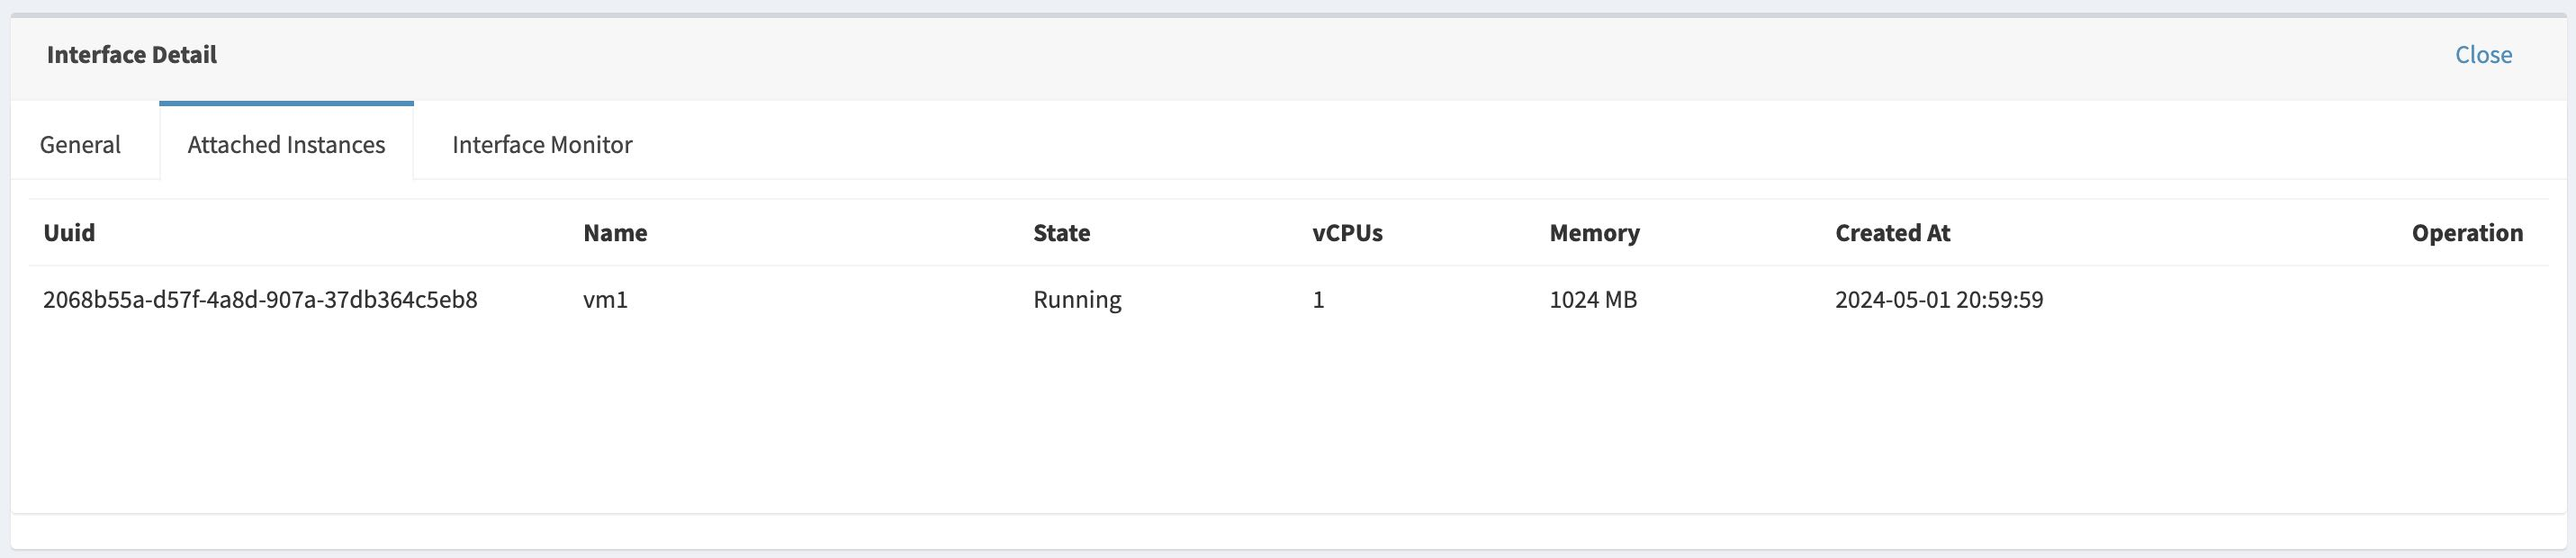
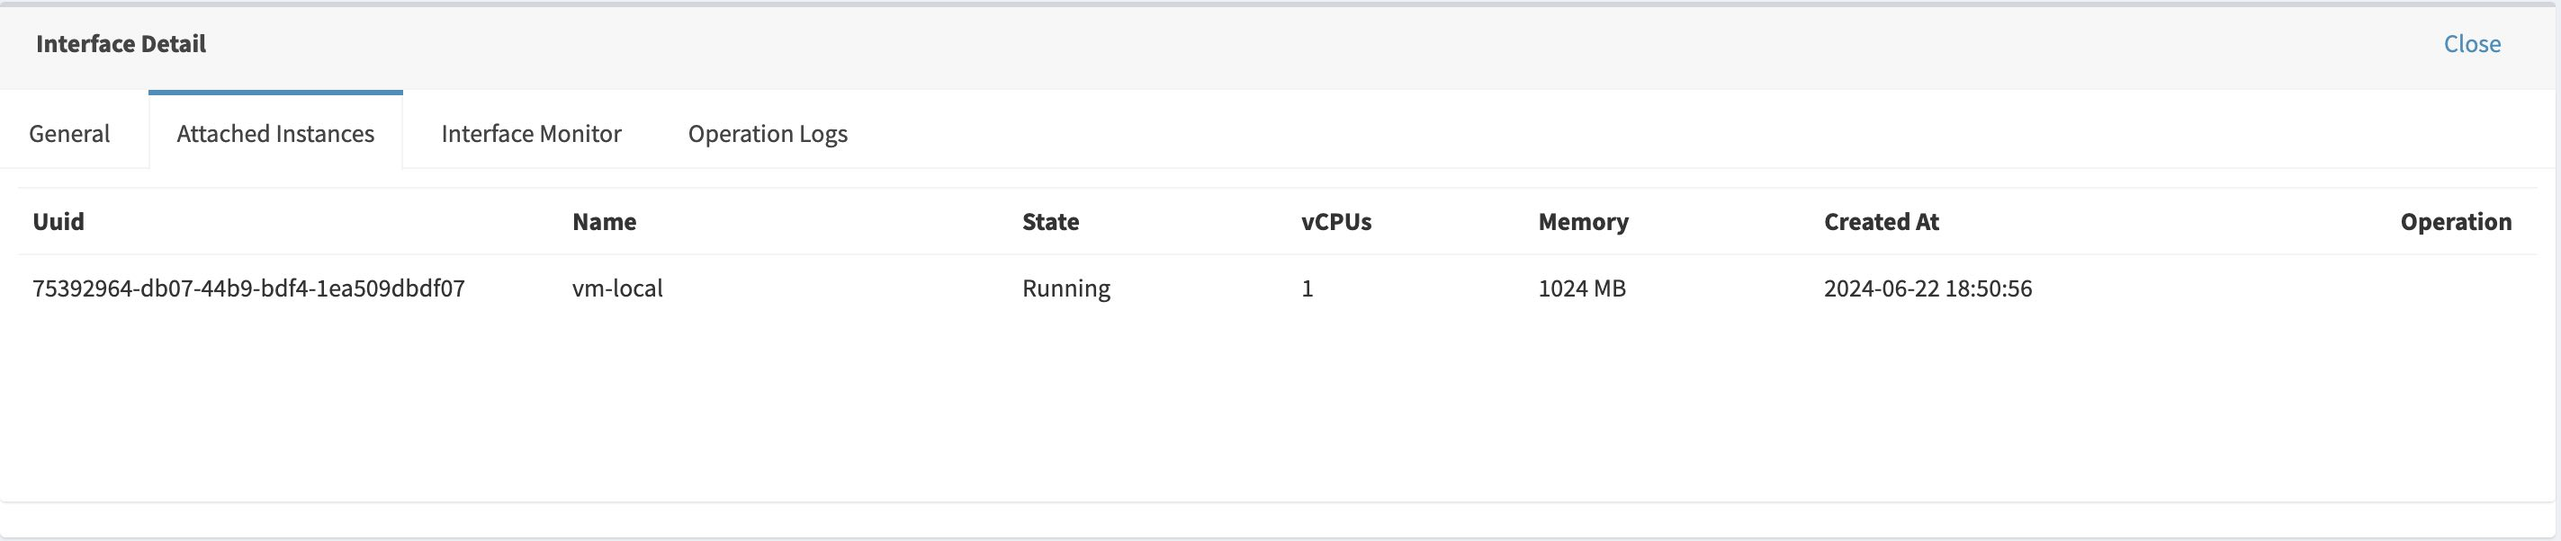
update

diff --git a/content/en/docs/Usage/WebUI/Network/enic/_index.md b/content/en/docs/Usage/WebUI/Network/enic/_index.md
@@ -8,13 +8,14 @@ weight: 2
 ## Check Network Interfaces
 
 * Check network interface list:
-  * To change current cluster, click **Change Cluster** and then select **Zone** and **Cluster**
-  * Click **filter** button, input or select filter conditions, check the filtered network interfaces list
-  * Click **columns** button，select the columns to be displayed in the list，by default it shows all columns
+  * To change current cluster, click "**Change Cluster**" and then select "**Zone**" and "**Cluster**"
+  * Click "**filter**" button, input or select filter conditions, check the filtered network interfaces list
+  * Click "**columns**" button，select the columns to be displayed in the list，by default it shows all columns
 * To view a network interface's details, select the network interface in the list，detailed information will be showed in the below panel.
   * General information tab: show the general information of the network inerface
   * Attached instances tab: show the virtual machine instance to which the network interface attaches
   * Network interface monitor tab: Show the network interface's I/O statistical information in charts
+  * Operation logs tab: Show the network interface's operation logs
   
 {{% imgproc nic_list Fit "1000x600" %}}
 network interfaces list page
@@ -26,6 +27,10 @@ virtual machines to which the network interface attaches
 
 {{% imgproc nic_stat Fit "1000x400" %}}
 network interface's I/O monitor
+{{% /imgproc %}}
+
+{{% imgproc nic_logs Fit "1000x400" %}}
+network interface's operation logs
 {{% /imgproc %}}
 
 ## Create Network Interface

diff --git a/content/en/docs/Usage/WebUI/Storage/volume/_index.md b/content/en/docs/Usage/WebUI/Storage/volume/_index.md
@@ -7,14 +7,15 @@ weight: 2
 ## Volume List
 
 * Check volumes list：
-  * To change current cluster, click **Change Cluster** and then select **Zone** and **Cluster**
-  * Click **filter** button, input or select filter conditions, check the filtered volumes list
-  * Click **columns** button，select the columns to be displayed in the list，by default it shows all columns
+  * To change current cluster, click "**Change Cluster**" and then select "**Zone**" and "**Cluster**"
+  * Click "**filter**" button, input or select filter conditions, check the filtered volumes list
+  * Click "**columns**" button，select the columns to be displayed in the list，by default it shows all columns
 * To view a volume's details, select a volume in the list，detailed information will be showed in the below panel.
   * General information tab: show the general information of the volume
   * Attached instances tab: show the virtual machine instance to which the volume attaches
   * Snapshot tab: show the snapshots of the volume
   * Volume monitor tab: Show the volume's I/O statistical information in charts
+  * Operation log tab: Show the the volume's operation logs
   
 {{% imgproc volume_list Fit "1000x1000" %}}
 volume list page
@@ -30,6 +31,10 @@ volume's snapshot list
 
 {{% imgproc volume_stat Fit "1000x400" %}}
 volume's I/O monitor
+{{% /imgproc %}}
+
+{{% imgproc volume_logs Fit "1000x400" %}}
+volume's operation logs
 {{% /imgproc %}}
 
 ## Create New Volume

diff --git a/content/en/docs/Usage/WebUI/Storage/snapshot/_index.md b/content/en/docs/Usage/WebUI/Storage/snapshot/_index.md
@@ -5,13 +5,13 @@ weight: 3
 ---
 
 * Check snapshot list：
-  * To change current cluster, click **Change Cluster** and then select **Zone** and **Cluster**
-  * Click **filter** button, input or select filter conditions, check the filtered snapshot list
-  * Click **columns** button，select the columns to be displayed in the list，by default it shows all columns
+  * To change current cluster, click "**Change Cluster**" and then select "**Zone**" and "**Cluster**"
+  * Click "**filter**" button, input or select filter conditions, check the filtered snapshot list
+  * Click "**columns**" button，select the columns to be displayed in the list，by default it shows all columns
 * Edit snapshot
-  * Click **Edit** item button in the opetation dropdown menu to update the snapshot's basic information
+  * Click "**Edit**" item button in the opetation dropdown menu to update the snapshot's basic information
 * Delete snapshot
-  * Click **Delete** item button in the opetation dropdown menu to delete a snapshot
+  * Click "**Delete**" item button in the opetation dropdown menu to delete a snapshot
 
 {{% imgproc snapshot_list Fit "1000x500" %}}
 snapshot list page

diff --git a/content/zh/docs/Usage/WebUI/Storage/snapshot/_index.md b/content/zh/docs/Usage/WebUI/Storage/snapshot/_index.md
@@ -5,13 +5,13 @@ weight: 3
 ---
 
 * 查看快照列表：
-  * 选择当前的**可用区**和**集群**，查看当前集群下所有的快照
-  * 点击**筛选**按钮，输入查询条件，查看按条件过滤的快照列表
-  * 点击**列过滤**按钮，过滤需要显示在列表也的信息，默认全部显示
+  * 选择当前的"**可用区**"和"**集群**"，查看当前集群下所有的快照
+  * 点击"**筛选**"按钮，输入查询条件，查看按条件过滤的快照列表
+  * 点击"**列过滤**"按钮，过滤需要显示在列表也的信息，默认全部显示
 * 编辑快照
-  * 点击某个快照的**编辑**按钮，可编辑快照的名称和描述
+  * 点击某个快照的"**编辑**"按钮，可编辑快照的名称和描述
 * 删除快照
-  * 点击某个快照的**删除**按钮，可删除快照
+  * 点击某个快照的"**删除**"按钮，可删除快照
 
 {{% imgproc snapshot_list Fit "1000x500" %}}
 快照表页

diff --git a/content/zh/docs/Usage/WebUI/Network/enic/_index.md b/content/zh/docs/Usage/WebUI/Network/enic/_index.md
@@ -8,9 +8,9 @@ weight: 2
 ## 查看弹性网卡
 
 * 网卡列表：
-  * 选择当前的**可用区**和**集群**，查看当前集群下所有的弹性网卡
-  * 点击**筛选**按钮，输入过滤条件，查询过滤后的弹性网卡列表
-  * 点击**列过滤**按钮，过滤需要显示在列表也的信息，默认全部显示
+  * 选择当前的"**可用区**"和"**集群**"，查看当前集群下所有的弹性网卡
+  * 点击"**筛选**"按钮，输入过滤条件，查询过滤后的弹性网卡列表
+  * 点击"**列过滤**"按钮，过滤需要显示在列表也的信息，默认全部显示
 * 查看弹性网卡详情：在列表中选中某个弹性网卡，显示云盘详情信息
   * 基本信息页：显示网卡的基础信息 
   * 挂载的实例页：显示该网卡挂载的虚拟机实例信息

diff --git a/content/en/docs/Usage/WebUI/Compute/image/_index.md b/content/en/docs/Usage/WebUI/Compute/image/_index.md
@@ -7,12 +7,12 @@ weight: 3
 ## Check User Images
 
 * Check user's image list：
-  * Click **Filter** button, input or select filter conditions, check the filtered image list
-  * Click **Columns** button，select the columns to be displayed in the list，by default it shows all columns
+  * Click "**Filter**" button, input or select filter conditions, check the filtered image list
+  * Click "**Columns**" button，select the columns to be displayed in the list，by default it shows all columns
 * Update user's image：
-  * Click **Edit** button to edit image's attributes
+  * Click "**Edit**" button to edit image's attributes
 * Delete user's image 
-  * Click **Delete** button to delete an image
+  * Click "**Delete**" button to delete an image
   
 {{% imgproc image_list Fit "1000x500" %}}
 User's image list page

diff --git a/content/zh/docs/Usage/WebUI/Storage/volume/_index.md b/content/zh/docs/Usage/WebUI/Storage/volume/_index.md
@@ -7,9 +7,9 @@ weight: 2
 ## 查看云盘
 
 * 查看云盘列表：
-  * 选择当前的**可用区**和**集群**，查看当前集群下所有的云盘
-  * 点击**筛选**按钮，输入过滤条件，查询过滤后的云盘列表
-  * 点击**列过滤**按钮，过滤需要显示在列表也的信息，默认全部显示
+  * 选择当前的"**可用区**"和"**集群**"，查看当前集群下所有的云盘
+  * 点击"**筛选**"按钮，输入过滤条件，查询过滤后的云盘列表
+  * 点击"**列过滤**"按钮，过滤需要显示在列表也的信息，默认全部显示
 * 查看云盘详情：在列表中选中某个云盘，显示云盘详情信息
   * 基本信息页：显示云盘的基础信息 
   * 挂载的实例页：显示云盘挂载的虚拟机实例信息

diff --git a/content/zh/docs/Usage/WebUI/Compute/image/_index.md b/content/zh/docs/Usage/WebUI/Compute/image/_index.md
@@ -7,12 +7,12 @@ weight: 3
 ## 查看私有镜像
 
 * 查看私有镜像列表：
-  * 点击**筛选**按钮，输入过滤条件，查询过滤后的镜像列表
-  * 点击**列过滤**按钮，过滤需要显示在列表也的信息，默认全部显示
+  * 点击"**筛选**"按钮，输入过滤条件，查询过滤后的镜像列表
+  * 点击"**列过滤**"按钮，过滤需要显示在列表也的信息，默认全部显示
 * 编辑私有镜像：
-  * 点击镜像的**编辑**按钮编辑镜像属性信息
+  * 点击镜像的"**编辑**"按钮编辑镜像属性信息
 * 删除私有镜像
-  * 点击镜像的**删除**按钮删除镜像
+  * 点击镜像的"**删除**"按钮删除镜像
   
 {{% imgproc image_list Fit "1000x500" %}}
 私有镜像列表页
